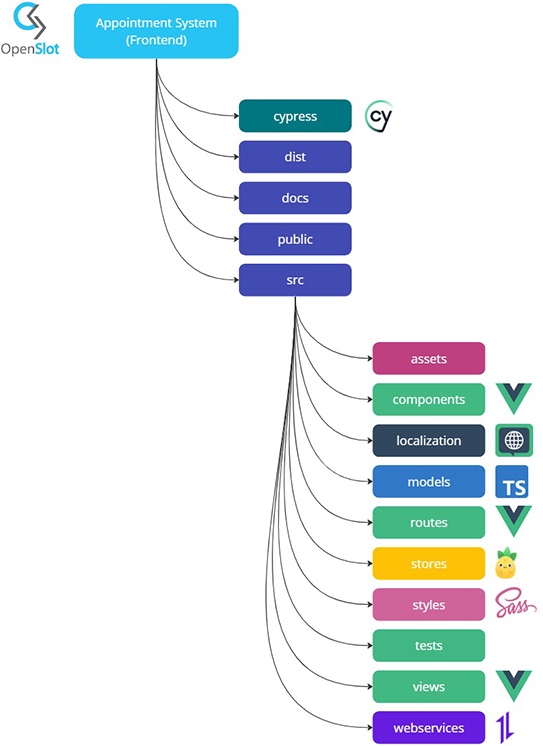
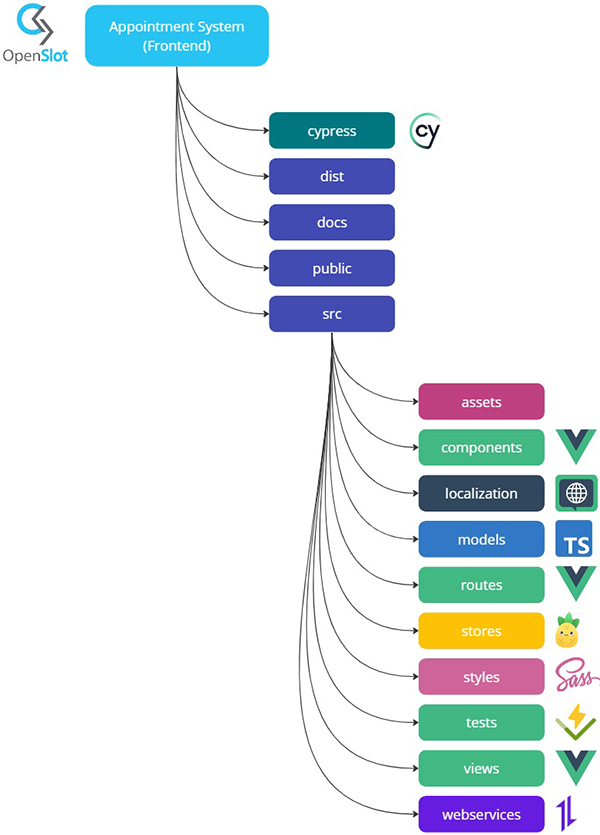
[ADD] Readme file: Update readme images adding Vitest and remove specific info in component folder

diff --git a/README.md b/README.md
@@ -186,9 +186,6 @@ Testing is an important part of our project, so we have prepared simple testing 
     │   ├── fonts                   // Font files (woff2, ttf...)
     │   └── img                     // Project images
     ├── components              // Reusable Components
-    │   ├── common                  // Common components
-    │   ├── Login                   // Login component
-    │   └── Navigation              // Navigation component
     ├── localization            // All translations
     │   └── locales
     │       ├── en             // All translations from English
